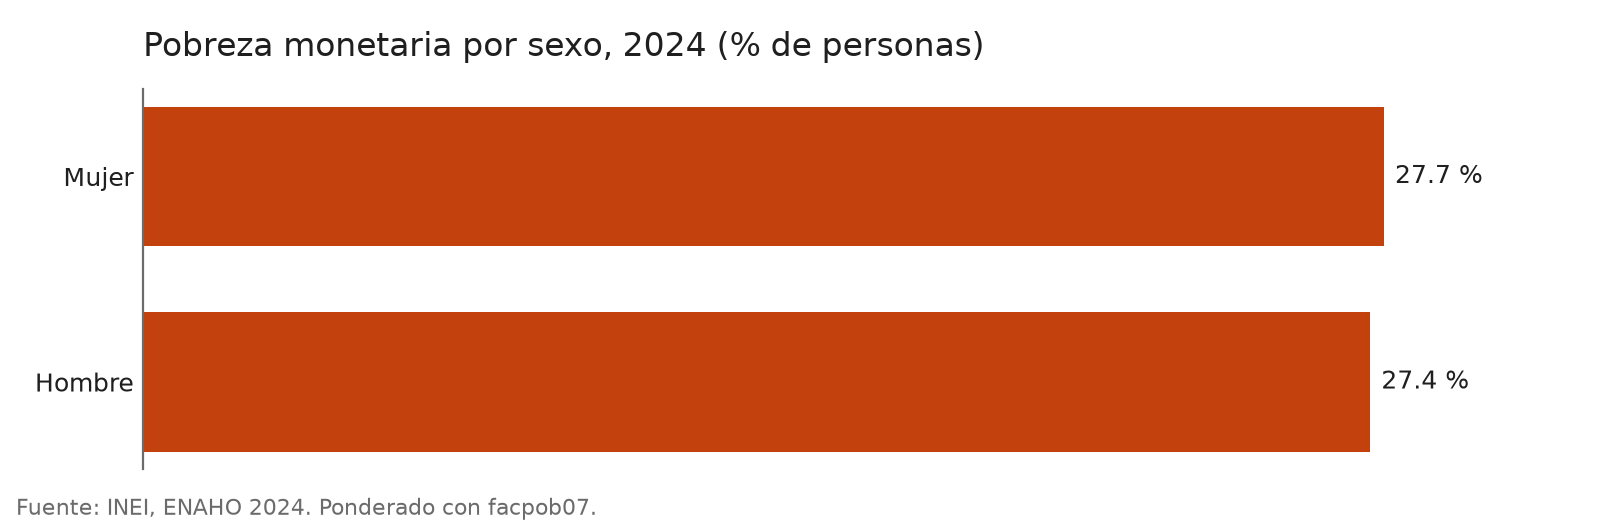
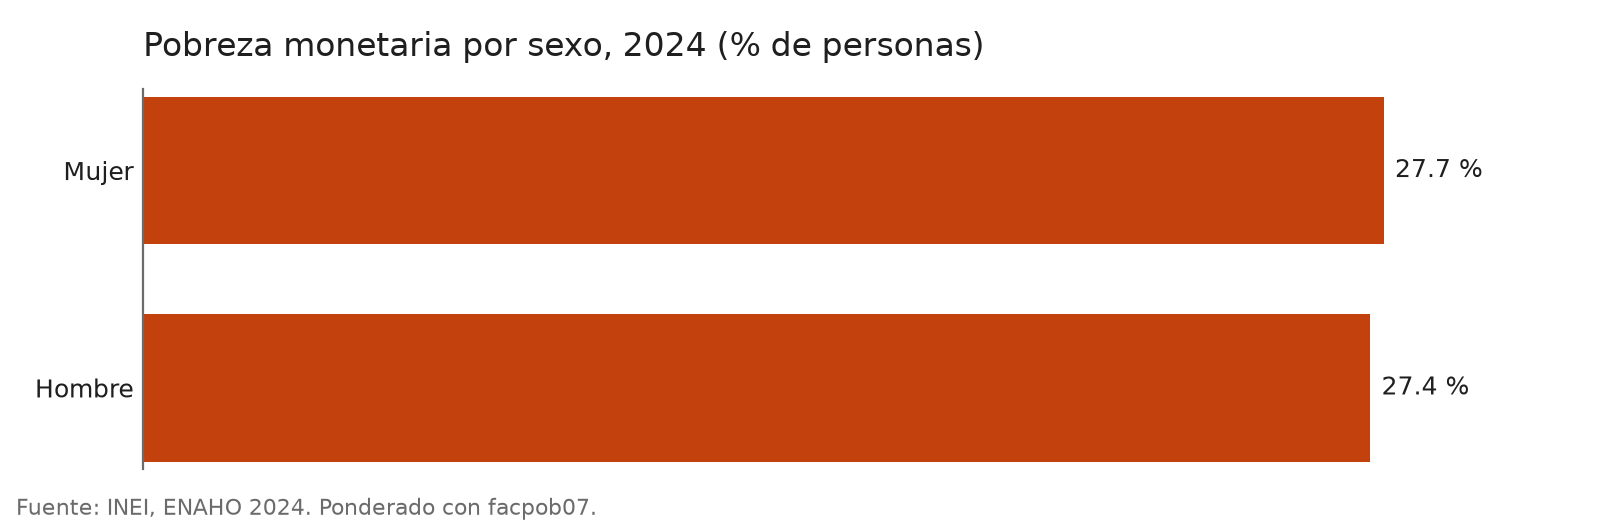
Años 2015-2024, mapa comprobado en los 25 departamentos, README con figuras y evaluación comparada

diff --git a/.claude/skills/limpiando-enaho/scripts/limpiar.py b/.claude/skills/limpiando-enaho/scripts/limpiar.py
@@ -9,11 +9,20 @@ from pathlib import Path
 
 import pandas as pd
 
-CODIGOS = {2024: 966}
+# Igual que en descargando-enaho/scripts/descargar.py
+CODIGOS = {
+    2015: 498, 2016: 546, 2017: 603, 2018: 634, 2019: 687,
+    2020: 737, 2021: 759, 2022: 784, 2023: 906, 2024: 966,
+}
 LLAVES_HOGAR = ["conglome", "vivienda", "hogar"]
 LLAVES_PERSONA = LLAVES_HOGAR + ["codperso"]
-# Cifras oficiales del INEI para comparar. Solo se valida contra ellas el año que esté aquí.
-OFICIAL = {2024: {"pobreza": 27.6, "extrema": 5.5, "hogares": 33_691, "residentes": 108_664}}
+# Pobreza monetaria oficial del INEI (% de personas), contra la que se valida cada año.
+POBREZA_OFICIAL = {
+    2015: 21.8, 2016: 20.7, 2017: 21.7, 2018: 20.5, 2019: 20.2,
+    2020: 30.1, 2021: 25.9, 2022: 27.5, 2023: 29.0, 2024: 27.6,
+}
+# Conteos y pobreza extrema comprobados con los archivos; solo 2024.
+OFICIAL = {2024: {"extrema": 5.5, "hogares": 33_691, "residentes": 108_664}}
 TOLERANCIA = 0.1
 
 COLS_SUMARIA = LLAVES_HOGAR + ["ubigeo", "dominio", "estrato", "pobreza", "mieperho", "factor07"]
@@ -97,16 +106,21 @@ def main() -> None:
         ("llaves de persona únicas en miembros", not miembros.duplicated(LLAVES_PERSONA).any()),
         ("la unión no perdió ni duplicó filas", len(base) == len(personas)),
         ("toda persona encontró su hogar", (base._merge == "both").all()),
+        ("ubigeo de 6 dígitos (ceros conservados)", base.ubigeo.str.fullmatch(r"\d{6}").all()),
         ("25 departamentos", base.departamento.nunique() == 25),
         ("ninguna persona sin pobreza ni factor", base[["pobreza", "facpob07"]].notna().all().all()),
     ]
+    pobreza_oficial = POBREZA_OFICIAL.get(a.anio)
+    if pobreza_oficial is not None:
+        chequeos += [
+            (f"pobreza (sumaria) a {TOLERANCIA} pts de {pobreza_oficial} %", abs(pob_hogar - pobreza_oficial) < TOLERANCIA),
+        ]
     oficial = OFICIAL.get(a.anio)
     if oficial:
         chequeos += [
             (f"hogares = {oficial['hogares']:,}", len(sumaria) == oficial["hogares"]),
             (f"residentes habituales = {oficial['residentes']:,}", len(personas) == oficial["residentes"]),
-            (f"pobreza (sumaria) a {TOLERANCIA} pts de {oficial['pobreza']} %", abs(pob_hogar - oficial["pobreza"]) < TOLERANCIA),
-            (f"pobreza (personas) a {TOLERANCIA} pts de {oficial['pobreza']} %", abs(pob_pers - oficial["pobreza"]) < TOLERANCIA),
+            (f"pobreza (personas) a {TOLERANCIA} pts de {pobreza_oficial} %", abs(pob_pers - pobreza_oficial) < TOLERANCIA),
             (f"pobreza extrema a {TOLERANCIA} pts de {oficial['extrema']} %", abs(ext_hogar - oficial["extrema"]) < TOLERANCIA),
         ]
 
@@ -119,7 +133,8 @@ def main() -> None:
         f"pobreza, personas facpob07:     {pob_pers:.2f} %",
         f"pobreza extrema (sumaria):      {ext_hogar:.2f} %",
         f"población expandida:            {base.facpob07.sum() / 1e6:.2f} millones",
-        "" if oficial else f"AVISO: no hay cifras oficiales cargadas para {a.anio}; compara a mano con el INEI.",
+        f"pobreza oficial del INEI:       {pobreza_oficial if pobreza_oficial is not None else 'sin dato'} %",
+        "" if pobreza_oficial is not None else f"AVISO: no hay pobreza oficial cargada para {a.anio}; compara a mano con el INEI.",
         "",
     ] + [f"[{'OK' if ok else 'FALLA'}] {texto}" for texto, ok in chequeos]
     todo_ok = all(ok for _, ok in chequeos)

diff --git a/.claude/skills/mapeando-enaho/scripts/mapear.py b/.claude/skills/mapeando-enaho/scripts/mapear.py
@@ -12,6 +12,12 @@ import pandas as pd
 
 TINTA, TINTA_SUAVE, FONDO = "#1F1F1F", "#6B6B6B", "#FFFFFF"
 MEDIDAS = {"pobreza": ("pobre", "Pobreza monetaria"), "extrema": ("pobre_extremo", "Pobreza extrema")}
+# Pobreza monetaria 2024 por departamento (referencias/pobreza_departamento_2024.csv de la sesión 16).
+REFERENCIA_2024 = {
+    "01": 25.7, "02": 22.8, "03": 24.0, "04": 15.8, "05": 32.8, "06": 45.0, "07": 33.9, "08": 18.5, "09": 33.4,
+    "10": 39.0, "11": 6.0, "12": 18.5, "13": 30.2, "14": 14.0, "15": 27.1, "16": 43.0, "17": 11.1, "18": 11.0,
+    "19": 39.0, "20": 31.9, "21": 39.9, "22": 22.0, "23": 24.0, "24": 26.9, "25": 27.1,
+}
 
 
 def main() -> None:
@@ -48,6 +54,10 @@ def main() -> None:
     for codigo in ("07", "15"):  # Callao y Lima van separados
         if codigo not in set(mapa.FIRST_IDDP):
             raise SystemExit(f"Falta el departamento {codigo} en el GeoJSON")
+    if a.anio == 2024 and a.medida == "pobreza":
+        distintos = {c: (v, REFERENCIA_2024[c]) for c, v in zip(tabla.departamento, tabla.pct) if v != REFERENCIA_2024[c]}
+        if distintos:
+            raise SystemExit(f"No replica la referencia 2024 (calculado, referencia): {distintos}")
 
     fig, ax = plt.subplots(figsize=(7.5, 9.5), facecolor=FONDO)
     mapa.plot(
@@ -69,7 +79,8 @@ def main() -> None:
     ].to_csv(carpeta / nombre.replace(".png", ".csv"), index=False)
 
     print(mapa.sort_values("pct", ascending=False)[["FIRST_IDDP", "NOMBDEP", "pct"]].to_string(index=False))
-    print(f"\n25 departamentos con dato. guardado {carpeta / nombre}")
+    comprobado = " Los 25 coinciden con la referencia 2024." if a.anio == 2024 and a.medida == "pobreza" else ""
+    print(f"\n25 departamentos con dato.{comprobado} guardado {carpeta / nombre}")
 
 
 if __name__ == "__main__":

diff --git a/.claude/skills/descargando-enaho/scripts/descargar.py b/.claude/skills/descargando-enaho/scripts/descargar.py
@@ -5,8 +5,11 @@ import urllib.request
 import zipfile
 from pathlib import Path
 
-# Código del portal de microdatos del INEI por año. Solo se incluyen los verificados.
-CODIGOS = {2024: 966}
+# Código del portal de microdatos del INEI por año, verificado con el nombre de la sumaria dentro de cada zip.
+CODIGOS = {
+    2015: 498, 2016: 546, 2017: 603, 2018: 634, 2019: 687,
+    2020: 737, 2021: 759, 2022: 784, 2023: 906, 2024: 966,
+}
 URL_INEI = "https://proyectos.inei.gob.pe/iinei/srienaho/descarga/STATA/{codigo}-Modulo{modulo}.zip"
 URL_GEOJSON = (
     "https://raw.githubusercontent.com/d2cml-ai/Data-Science-Python/main/"

diff --git a/README.md b/README.md
@@ -1,14 +1,21 @@
 # enaho-skills
 
-Cuatro skills de Claude Code para trabajar la ENAHO 2024 del INEI siempre de la misma forma: descargarla,
-limpiarla y validarla contra la pobreza oficial, graficarla y mapearla por departamento.
+Cuatro skills de Claude Code para trabajar la ENAHO del INEI siempre de la misma forma: descargarla,
+limpiarla y validarla contra la pobreza oficial, graficarla y mapearla por departamento. La limpieza replica la
+pobreza monetaria oficial de 2024: **27.6 %**.
+
+| Pobreza por área | Pobreza por departamento |
+|---|---|
+| ![Pobreza por área, 2024](figuras/pobreza_area_2024.png) | ![Mapa de pobreza por departamento, 2024](mapas/pobreza_departamento.png) |
+
+Más figuras en [`figuras/`](figuras/): por sexo, grupo de edad y departamento.
 
 | Skill | Entra | Sale |
 |---|---|---|
-| `descargando-enaho` | El año (2024 = código 966 del INEI) | `datos/966-Modulo34.zip`, `datos/966-Modulo02.zip`, `datos/peru_departamental_simple.geojson` |
-| `limpiando-enaho` | Los zip de los módulos 34 y 02 | `salidas/personas_2024.parquet`, `salidas/hogares_2024.parquet`, `salidas/validacion.txt` |
-| `graficando-enaho` | La base limpia y un corte: área, sexo, edad, dominio o departamento | `figuras/*.png` |
-| `mapeando-enaho` | La base limpia y el GeoJSON | `mapas/pobreza_departamento.png` y `.csv` |
+| [`descargando-enaho`](.claude/skills/descargando-enaho/SKILL.md) | El año, de 2015 a 2024 | `datos/<código>-Modulo34.zip`, `datos/<código>-Modulo02.zip`, `datos/peru_departamental_simple.geojson` |
+| [`limpiando-enaho`](.claude/skills/limpiando-enaho/SKILL.md) | Los zip de los módulos 34 y 02 | `salidas/personas_<año>.parquet`, `salidas/hogares_<año>.parquet`, [`salidas/validacion.txt`](salidas/validacion.txt) |
+| [`graficando-enaho`](.claude/skills/graficando-enaho/SKILL.md) | La base limpia y un corte: área, sexo, edad, dominio o departamento | `figuras/*.png` |
+| [`mapeando-enaho`](.claude/skills/mapeando-enaho/SKILL.md) | La base limpia y el GeoJSON | `mapas/pobreza_departamento.png` y `.csv` |
 
 Las skills se encadenan: si falta la base limpia, graficar y mapear llaman primero a `limpiando-enaho`, y si
 faltan los zip, esta llama a `descargando-enaho`. Un solo pedido («haz un mapa de la pobreza») puede activar las
@@ -51,8 +58,23 @@ uv run .claude/skills/graficando-enaho/scripts/graficar.py --por departamento
 uv run .claude/skills/mapeando-enaho/scripts/mapear.py
 ```
 
-O, dentro de Claude Code: «¿cuál fue la pobreza en Cusco en 2024?», «grafica la pobreza urbana y rural»,
-«haz un mapa de la pobreza por departamento».
+O, dentro de Claude Code, en lenguaje natural o llamando a la skill con `/`:
+
+```text
+¿Cuál fue la pobreza en Cusco en 2024?
+Grafica la pobreza urbana y rural
+Haz un mapa de la pobreza por departamento
+/descargando-enaho 2023
+/limpiando-enaho 2023
+/graficando-enaho sexo extrema
+```
+
+### Otros años
+
+`descargando-enaho` conoce los códigos del INEI de 2015 a 2024, verificados con el nombre de la sumaria dentro de
+cada zip. `limpiando-enaho` valida cada año contra su pobreza oficial. 2023, por ejemplo, da 29.05 % (INEI:
+29.0 %) con 110,792 residentes habituales. Las comprobaciones de hogares, residentes, pobreza extrema y los 25
+departamentos del mapa solo están cargadas para 2024.
 
 ## Validación
 
@@ -66,6 +88,7 @@ O, dentro de Claude Code: «¿cuál fue la pobreza en Cusco en 2024?», «grafic
 | Residentes habituales | 108,664 | 108,664 |
 | Urbana / rural | 24.8 % / 39.3 % | 24.8 % / 39.3 % |
 | Cajamarca / Cusco / Ica | 45.0 % / 18.5 % / 6.0 % | 45.0 % / 18.5 % / 6.0 % |
+| Los 25 departamentos | [referencia de la sesión 16](https://github.com/d2cml-ai/Data-Science-Python/blob/main/sessions/16-skills-enaho/referencias/pobreza_departamento_2024.csv) | 25 de 25 iguales a un decimal; `mapear.py` lo comprueba |
 
 ### Una decisión de método
 

diff --git a/.claude/skills/mapeando-enaho/SKILL.md b/.claude/skills/mapeando-enaho/SKILL.md
@@ -1,15 +1,17 @@
 ---
 name: mapeando-enaho
 description: Hace un mapa coroplético del Perú con la pobreza monetaria o extrema de la ENAHO del INEI por departamento (región), uniendo por código de ubigeo con los límites de los 25 departamentos, y lo guarda como PNG en mapas/. Úsala cuando pidan un mapa, mapear o ver en el territorio la pobreza por departamento o región.
-argument-hint: [pobreza|extrema]
+argument-hint: [pobreza|extrema] [año]
 ---
 # Mapear la ENAHO
 
-1. Si no existe `salidas/hogares_2024.parquet`, usa primero la skill `limpiando-enaho`.
+1. Si no existe `salidas/hogares_<año>.parquet` (2024 si no piden otro), usa primero la skill `limpiando-enaho`.
    Si no existe `datos/peru_departamental_simple.geojson`, usa primero la skill `descargando-enaho`.
-2. Corre exactamente: `uv run ${CLAUDE_SKILL_DIR}/scripts/mapear.py --medida $0` (si no hay medida, usa `pobreza`).
-3. Si el script se detiene porque la unión falló, no lo «arregles» uniendo por nombre: revisa que los códigos
-   sean texto de dos dígitos.
+2. Corre exactamente: `uv run ${CLAUDE_SKILL_DIR}/scripts/mapear.py --medida <medida> --anio <año>`
+   (por defecto `pobreza` y 2024).
+3. Si el script se detiene porque la unión falló o no replica la referencia 2024, no lo «arregles» uniendo por
+   nombre ni dibujando por otro camino: revisa que los códigos sean texto de dos dígitos y que la base esté
+   validada.
 4. Mira el PNG antes de entregarlo. Responde con la ruta del mapa, el departamento con mayor y menor pobreza
    y sus cifras (2024: Cajamarca 45.0 %, Ica 6.0 %). La tabla queda en `mapas/<medida>_departamento.csv`.
 
@@ -18,6 +20,7 @@ argument-hint: [pobreza|extrema]
 - Une por código: `ubigeo[:2]` de la ENAHO con `FIRST_IDDP` del GeoJSON, ambos como texto.
 - Nunca por nombre: «APURIMAC» del GeoJSON no es «Apurímac».
 - Exige 25 departamentos y ninguno sin dato; si no, se detiene.
+- En 2024 comprueba los 25 departamentos contra la referencia de la clase, a un decimal.
 - Lima (15) y Callao (07) van separados.
 - Pondera con `factor07 × mieperho` sobre la sumaria, el método oficial del INEI.
 - Un solo tono de claro a oscuro (`Oranges`) que empieza en 0; nunca arcoíris.

diff --git a/.claude/skills/graficando-enaho/SKILL.md b/.claude/skills/graficando-enaho/SKILL.md
@@ -1,16 +1,17 @@
 ---
 name: graficando-enaho
 description: Hace gráficos de barras de la pobreza monetaria o extrema de la ENAHO del INEI por área urbana y rural, sexo, grupo de edad, dominio o departamento, ponderados y con formato fijo, y los guarda como PNG en figuras/. Úsala cuando pidan graficar, comparar o visualizar la pobreza del Perú con la ENAHO.
-argument-hint: [area|sexo|edad|dominio|departamento] [pobreza|extrema]
+argument-hint: [area|sexo|edad|dominio|departamento] [pobreza|extrema] [año]
 ---
 # Graficar la ENAHO
 
-1. Si no existe `salidas/personas_2024.parquet` o `salidas/hogares_2024.parquet`, usa primero la skill
-   `limpiando-enaho`.
+1. Si no existen `salidas/personas_<año>.parquet` y `salidas/hogares_<año>.parquet` (2024 si no piden otro),
+   usa primero la skill `limpiando-enaho`.
 2. Traduce el pedido a un corte: urbano/rural → `area`; hombres/mujeres → `sexo`; niños, jóvenes, adultos
    mayores → `edad`; costa/sierra/selva o Lima Metropolitana → `dominio`; regiones → `departamento`.
    Si piden pobreza extrema, usa `--medida extrema`.
-3. Corre exactamente: `uv run ${CLAUDE_SKILL_DIR}/scripts/graficar.py --por <corte> --medida <medida>`.
+3. Corre exactamente: `uv run ${CLAUDE_SKILL_DIR}/scripts/graficar.py --por <corte> --medida <medida> --anio <año>`.
+   `--medida` solo acepta `pobreza` o `extrema`.
    Un corte por gráfico; si piden varios, corre el script una vez por corte.
 4. Responde con las cifras que imprime el script (con un decimal) y la ruta del PNG. Mira el PNG antes de
    entregarlo.

diff --git a/.claude/skills/descargando-enaho/SKILL.md b/.claude/skills/descargando-enaho/SKILL.md
@@ -7,12 +7,14 @@ argument-hint: [año]
 
 1. Corre exactamente: `uv run ${CLAUDE_SKILL_DIR}/scripts/descargar.py --anio $0` (si no hay año, usa 2024).
 2. El script baja tres archivos a `datos/` y no vuelve a bajar los que ya existen:
-   - `966-Modulo34.zip`: sumaria, una fila por hogar.
-   - `966-Modulo02.zip`: miembros, una fila por persona.
+   - `<código>-Modulo34.zip`: sumaria, una fila por hogar.
+   - `<código>-Modulo02.zip`: miembros, una fila por persona.
    - `peru_departamental_simple.geojson`: límites de los 25 departamentos.
 3. Lee lo que imprime. Si un zip no es un zip válido o pesa menos de 1 MB, el portal del INEI falló o está caído:
    detente y pide al usuario bajarlo desde el navegador con el enlace que imprime el script. No intentes otras URL.
-4. `966` es el código de la ENAHO 2024. Para otro año, pide al usuario el código del portal
-   (https://proyectos.inei.gob.pe/microdatos/) y corre con `--codigo <código>`. No adivines códigos.
+4. El portal identifica cada año por un código: 2024 = 966, 2023 = 906, 2022 = 784, 2021 = 759, 2020 = 737,
+   2019 = 687, 2018 = 634, 2017 = 603, 2016 = 546, 2015 = 498. Para un año fuera de la tabla, pide al usuario el
+   código del portal (https://proyectos.inei.gob.pe/microdatos/) y corre con `--codigo <código>`. No adivines
+   códigos.
 5. Comprueba que `datos/` esté en `.gitignore`: los microdatos no se suben al repositorio.
 6. Responde con la lista de archivos y su tamaño. No los descomprimas: `limpiando-enaho` lee los zip directamente.

diff --git a/evaluacion.md b/evaluacion.md
@@ -28,6 +28,20 @@ claude -p --disallowedTools Skill "<pedido>"      # sin skills
 Todas las corridas con skills empezaron sin `salidas/*.parquet`, así que la limpieza se rehizo y se validó cada vez.
 Las corridas sin skills se hicieron en una copia del repositorio con los mismos `datos/`: ninguna miró los microdatos.
 
+## Qué cambió al tener las skills
+
+| Aspecto | Con skills | Sin skills |
+|---|---|---|
+| Fuente de la cifra | Microdatos del INEI, limpiados y validados en la misma corrida | Intentó buscar en la web; sin permiso, se detuvo |
+| Validación | Lee `validacion.txt` (27.58 %, 108,664 residentes, unión `m:1`) antes de responder | Ninguna |
+| Encadenamiento | Graficar y mapear llamaron a `limpiando-enaho` al no hallar la base | — |
+| Archivos | Rutas fijas: `figuras/pobreza_area_2024.png`, `mapas/pobreza_departamento.png` | Ningún archivo |
+| Diseño | Un color, barras desde cero, valor escrito, fuente; mapa desde 0 con leyenda en % de personas | — |
+
+Una advertencia de método: `--disallowedTools Skill` no oculta la carpeta `.claude/`, así que Claude podría
+encontrar y correr los scripts de las skills por su cuenta. En estas corridas no pasó, pero para una comparación
+estricta conviene quitar `.claude/` de la copia sin skills.
+
 ## Lo que se corrigió
 
 - **Cusco no activó la skill en la primera corrida.** Claude respondió con un CSV que dejó una corrida anterior del

diff --git a/.claude/skills/limpiando-enaho/SKILL.md b/.claude/skills/limpiando-enaho/SKILL.md
@@ -5,11 +5,13 @@ argument-hint: [año]
 ---
 # Limpiar la ENAHO
 
-1. Si faltan `datos/966-Modulo34.zip` o `datos/966-Modulo02.zip`, usa primero la skill `descargando-enaho`.
-2. Corre exactamente: `uv run ${CLAUDE_SKILL_DIR}/scripts/limpiar.py --anio $0` (si no hay año, usa 2024).
+1. Corre exactamente: `uv run ${CLAUDE_SKILL_DIR}/scripts/limpiar.py --anio $0` (si no hay año, usa 2024;
+   hay datos de 2015 a 2024). Si dice que faltan los zip, usa primero la skill `descargando-enaho` con ese año.
    No reescribas el pipeline ni lo cambies para que pase la validación.
-3. Lee `salidas/validacion.txt`. Si dice `NO VALIDADA` o la pobreza difiere del INEI en más de 0.1 puntos,
-   detente y muestra al usuario qué chequeo falló.
+2. Lee `salidas/validacion.txt`. Si dice `NO VALIDADA` o la pobreza difiere del INEI en más de 0.1 puntos,
+   detente y muestra al usuario qué chequeo falló. Cada año se valida contra su pobreza oficial; 2024 además
+   contra hogares, residentes y pobreza extrema.
+3. Las cifras de referencia de abajo y de `reference.md` son de 2024.
 4. Bases que deja el script:
    - `salidas/personas_$0.parquet`: una fila por residente habitual. Pondera con `facpob07`.
      Úsala para sexo, edad o parentesco.
